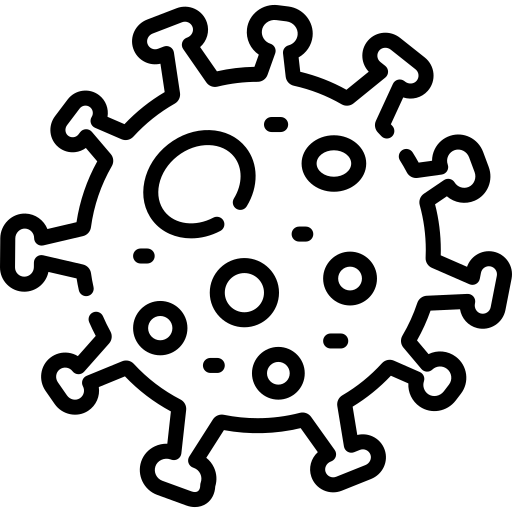
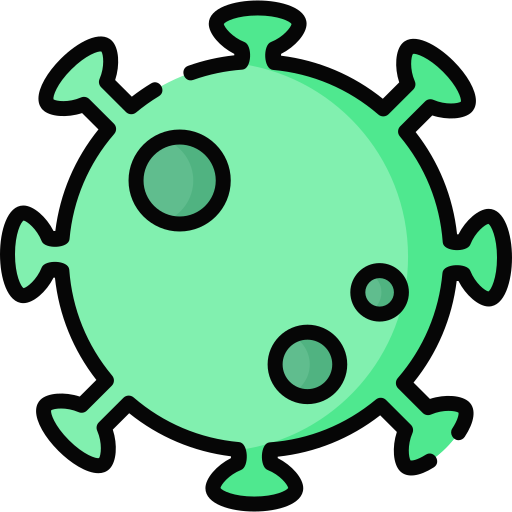
added the virus image

diff --git a/src.py b/src.py
@@ -12,6 +12,11 @@ vel = 5
 
 run = True
 
+virus = pygame.image.load("virus.png")
+virusX = 370
+virusY = 480
+virusX_change = 0
+
 #Game loop
 while run:
     pygame.time.delay(100) # This will delay the game the given amount of milliseconds. In our casee 0.1 seconds will be the delay
@@ -19,16 +24,18 @@ while run:
     for event in pygame.event.get():  # This will loop through a list of any keyboard or mouse events.
         if event.type == pygame.QUIT: # Checks if the red button in the corner of the window is clicked
             run = False  # Ends the game loop
-            
+
     keys = pygame.key.get_pressed()
-    
+
     if keys[pygame.K_RIGHT] and x >vel:
         x+= vel
     if keys[pygame.K_LEFT] and x < 500-width:
         x-=vel
-    
+
     win.fill((0,0,0))
     pygame.draw.rect(win, (255,0,0), (x, y, width, height))  #This takes: window/surface, color, rect
     pygame.display.update() # This updates the screen so we can see our rectangle
 
 pygame.quit()  # If we exit the loop this will execute and close our game
+
+#IMages from Icons made by <a href="https://www.flaticon.com/authors/freepik" title="Freepik">Freepik</a> from <a href="https://www.flaticon.com/" title="Flaticon"> www.flaticon.com</a>
